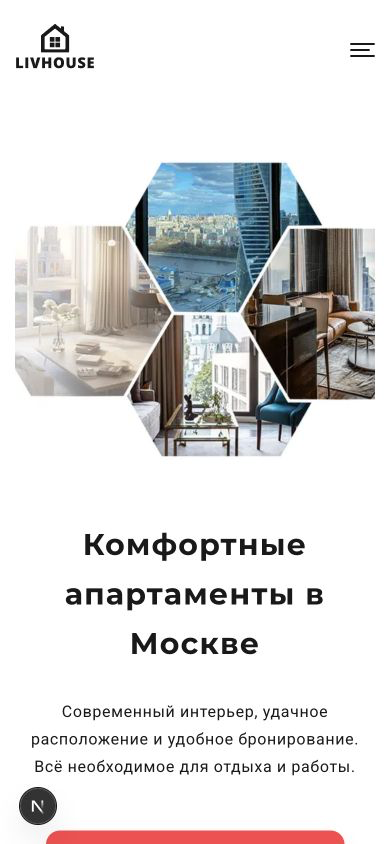
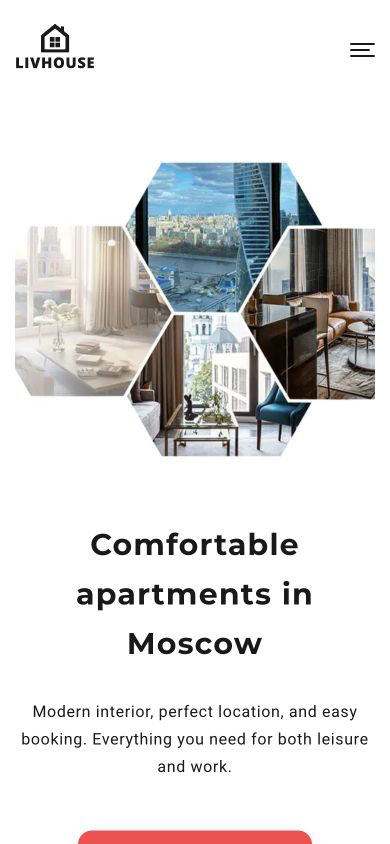
chore: prepare project for release
Fix routing, language switching, translations, and carousel accessibility. Refresh project documentation, environment examples, and English preview images.

Changed region(s): [[0.0308, 0.8318, 0.9538, 1.0], [0.1538, 0.6161, 0.8308, 0.8009], [0.7692, 0.9858, 0.8923, 1.0]]

diff --git a/src/components/HomeApartmentsCarousel/HomeApartmentsCarousel.tsx b/src/components/HomeApartmentsCarousel/HomeApartmentsCarousel.tsx
@@ -1,8 +1,8 @@
 'use client';
 
-import {useEffect, useRef, useSyncExternalStore} from 'react';
+import {useEffect, useRef, useSyncExternalStore, type KeyboardEvent} from 'react';
 import Swiper from 'swiper';
-import {Autoplay, Navigation, Pagination} from 'swiper/modules';
+import {A11y, Autoplay, Keyboard, Navigation, Pagination} from 'swiper/modules';
 
 import {Link} from '@/i18n/navigation';
 
@@ -49,6 +49,15 @@ function getReducedMotionServerSnapshot(): boolean {
   return false;
 }
 
+function handleNavigationKeyDown(event: KeyboardEvent<HTMLButtonElement>) {
+  if (event.key !== 'Enter' && event.key !== ' ') {
+    return;
+  }
+
+  event.preventDefault();
+  event.currentTarget.click();
+}
+
 export function HomeApartmentsCarousel({slides}: HomeApartmentsCarouselProps) {
   const reducedMotion = useSyncExternalStore(
     subscribeToReducedMotion,
@@ -73,7 +82,7 @@ export function HomeApartmentsCarousel({slides}: HomeApartmentsCarouselProps) {
     }
 
     const swiper = new Swiper(root, {
-      modules: [Autoplay, Pagination, Navigation],
+      modules: [Autoplay, Pagination, Navigation, Keyboard, A11y],
       loop: true,
       spaceBetween: 30,
       autoplay: reducedMotion
@@ -91,6 +100,13 @@ export function HomeApartmentsCarousel({slides}: HomeApartmentsCarouselProps) {
       navigation: {
         nextEl: next,
         prevEl: previous,
+      },
+      keyboard: {
+        enabled: true,
+        onlyInViewport: true,
+      },
+      a11y: {
+        enabled: true,
       },
       breakpoints: {
         0: {slidesPerView: 1},
@@ -141,8 +157,16 @@ export function HomeApartmentsCarousel({slides}: HomeApartmentsCarouselProps) {
           ))}
         </div>
         <div className="swiper-pagination" />
-        <div className="swiper-button-prev" />
-        <div className="swiper-button-next" />
+        <button
+          className="swiper-button-prev"
+          onKeyDown={handleNavigationKeyDown}
+          type="button"
+        />
+        <button
+          className="swiper-button-next"
+          onKeyDown={handleNavigationKeyDown}
+          type="button"
+        />
       </div>
     </div>
   );

diff --git a/src/proxy.ts b/src/proxy.ts
@@ -1,49 +1,10 @@
 import createMiddleware from 'next-intl/middleware';
-import type {NextRequest} from 'next/server';
-import {NextResponse} from 'next/server';
 
 import {routing} from './i18n/routing';
 
 const handleI18nRouting = createMiddleware(routing);
 
-function getUnprefixedPathname(pathname: string): string {
-  const defaultLocalePrefix = `/${routing.defaultLocale}`;
-
-  if (pathname === defaultLocalePrefix) {
-    return '/';
-  }
-
-  return pathname.startsWith(`${defaultLocalePrefix}/`)
-    ? pathname.slice(defaultLocalePrefix.length)
-    : pathname;
-}
-
-function getAlternateLinks(request: NextRequest): string {
-  const pathname = getUnprefixedPathname(request.nextUrl.pathname);
-  const ruUrl = request.nextUrl.clone();
-  ruUrl.pathname = pathname;
-  const enUrl = request.nextUrl.clone();
-  enUrl.pathname = pathname === '/' ? '/en' : `/en${pathname}`;
-
-  return [
-    [ruUrl, 'ru'],
-    [enUrl, 'en'],
-    [ruUrl, 'x-default']
-  ]
-    .map(([url, locale]) => `<${url}>; rel="alternate"; hreflang="${locale}"`)
-    .join(', ');
-}
-
-export default function proxy(request: NextRequest) {
-  // next-intl marks its internal locale rewrite so the proxy does not process it again.
-  if (request.headers.has('X-NEXT-INTL-LOCALE')) {
-    const response = NextResponse.next();
-    response.headers.set('Link', getAlternateLinks(request));
-    return response;
-  }
-
-  return handleI18nRouting(request);
-}
+export default handleI18nRouting;
 
 export const config = {
   matcher: ['/', '/((?!api|trpc|_next|_vercel|.*\\..*).*)']

diff --git a/src/components/LanguageSwitcher/LanguageSwitcher.tsx b/src/components/LanguageSwitcher/LanguageSwitcher.tsx
@@ -1,6 +1,6 @@
 'use client';
 
-import {usePathname, useRouter} from 'next/navigation';
+import {usePathname} from 'next/navigation';
 
 import {locales, type Locale} from '@/types/locale';
 
@@ -68,7 +68,6 @@ export function LanguageSwitcher({
   ruLabel
 }: LanguageSwitcherProps) {
   const pathname = usePathname();
-  const router = useRouter();
   const currentPathname = getSafePathname(pathname);
   const links = locales.map((locale) => ({
     locale,
@@ -96,7 +95,9 @@ export function LanguageSwitcher({
 
             if (nextHref !== href) {
               event.preventDefault();
-              router.push(nextHref);
+              window.location.assign(
+                new URL(nextHref, window.location.origin)
+              );
             }
           }}
         >

diff --git a/src/components/ApartmentRules/ApartmentRules.tsx b/src/components/ApartmentRules/ApartmentRules.tsx
@@ -13,7 +13,7 @@ type ApartmentRulesProps = {
 export function ApartmentRules({block}: ApartmentRulesProps) {
   return (
     <div className={styles.block}>
-      <h1 className={`${styles.title} ${styles.rules}`}>{block.title}</h1>
+      <h2 className={`${styles.title} ${styles.rules}`}>{block.title}</h2>
       <ul className={`${styles.list} ${styles.rulesList}`}>
         {block.timings.map((timing) => (
           <li className={styles.rulesItem} key={timing.icon}>

diff --git a/src/components/ApartmentAmenities/ApartmentAmenities.tsx b/src/components/ApartmentAmenities/ApartmentAmenities.tsx
@@ -12,7 +12,7 @@ export function ApartmentAmenities({columns, title}: ApartmentAmenitiesProps) {
 
   return (
     <div className={styles.block}>
-      <h1 className={`${styles.title} ${styles.facilities}`}>{title}</h1>
+      <h2 className={`${styles.title} ${styles.facilities}`}>{title}</h2>
       <div className={styles.rulesList}>
         {columns.map((column, columnIndex) => (
           <ul className={styles.list} key={`amenity-column-${columnIndex}`}>

diff --git a/src/components/HomeApartmentsSection/HomeApartmentsSection.tsx b/src/components/HomeApartmentsSection/HomeApartmentsSection.tsx
@@ -16,9 +16,9 @@ export async function HomeApartmentsSection({locale}: HomeApartmentsSectionProps
   return (
     <>
       <div className={styles.titleBlock}>
-        <h1 className={styles.title} id="apartments">
+        <h2 className={styles.title} id="apartments">
           {homeT('title')}
-        </h1>
+        </h2>
       </div>
       <HomeApartmentsCarousel slides={getLocalizedLegacyHomeApartments(locale)} />
     </>

diff --git a/src/components/ApartmentMap/ApartmentMap.tsx b/src/components/ApartmentMap/ApartmentMap.tsx
@@ -10,7 +10,7 @@ type ApartmentMapProps = {
 export function ApartmentMap({map, title}: ApartmentMapProps) {
   return (
     <div className={`${styles.block} ${styles.blockMaps}`}>
-      <h1 className={`${styles.title} ${styles.maps}`}>{title}</h1>
+      <h2 className={`${styles.title} ${styles.maps}`}>{title}</h2>
       <div className={styles.mapSection}>
         <div className={styles.mapFrame}>
           <iframe

diff --git a/src/components/HomeBookingForm/HomeBookingForm.tsx b/src/components/HomeBookingForm/HomeBookingForm.tsx
@@ -483,7 +483,7 @@ export function HomeBookingForm({apartments, labels, locale}: HomeBookingFormPro
   return (
     <>
       <div className={styles.formContainer}>
-        <h1 className={styles.formTitle}>{labels.title}</h1>
+        <h2 className={styles.formTitle}>{labels.title}</h2>
         <p className={styles.formText}>{labels.description}</p>
         <form
           noValidate

diff --git a/next.config.ts b/next.config.ts
@@ -7,6 +7,8 @@ const withNextIntl = createNextIntlPlugin('./src/i18n/request.ts');
 
 const nextConfig: NextConfig = {
   output: 'standalone',
+  allowedDevOrigins: ['192.168.100.184'],
+   devIndicators: false,
   poweredByHeader: false,
   headers: async () => [
     {

diff --git a/README.md b/README.md
@@ -77,6 +77,15 @@ The UI is built with React and App Router server components, while booking reque
 - Nodemailer supports disabled, local Mailpit, and explicitly configured SMTP modes.
 - Booking data is not stored in a production database in this public version; it remains in memory during the request and is passed to the configured mail transport.
 
+## Project Structure
+
+- `src/app/` contains the App Router routes and localized layouts.
+- `src/components/` contains reusable page, navigation, form, gallery, and booking UI.
+- `src/data/apartments/` is the typed static source for catalog, detail, carousel, and booking data.
+- `src/server/` contains booking validation, CAPTCHA, rate limiting, and mail delivery code.
+- `tests/` contains the Vitest unit and integration coverage for the application boundaries.
+- `public/` contains the local static assets used by the interface.
+
 ## Getting Started
 
 The interface can be opened without SMTP or Docker configuration.
